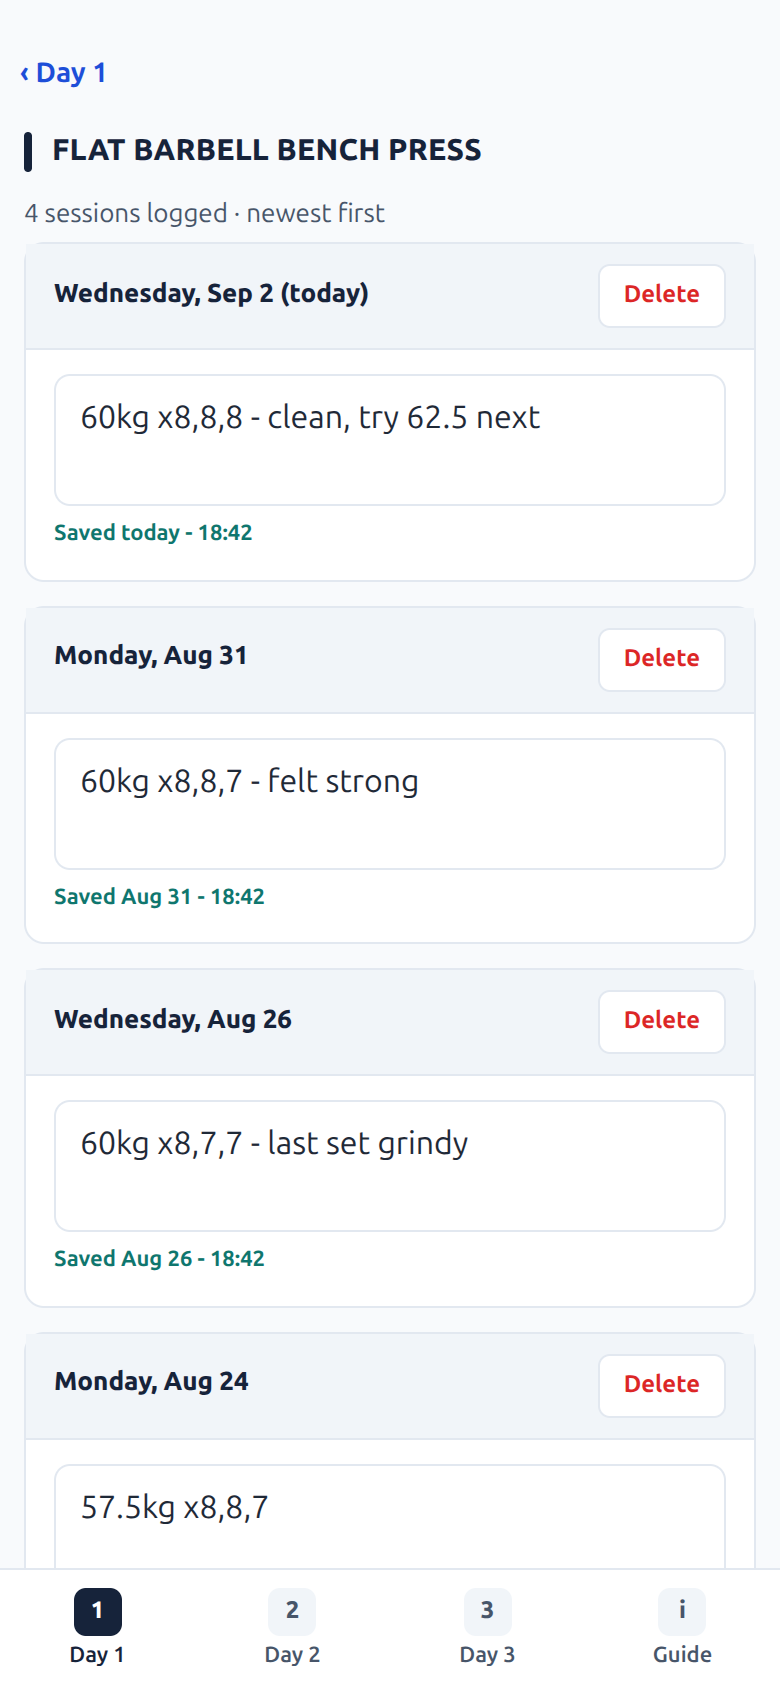
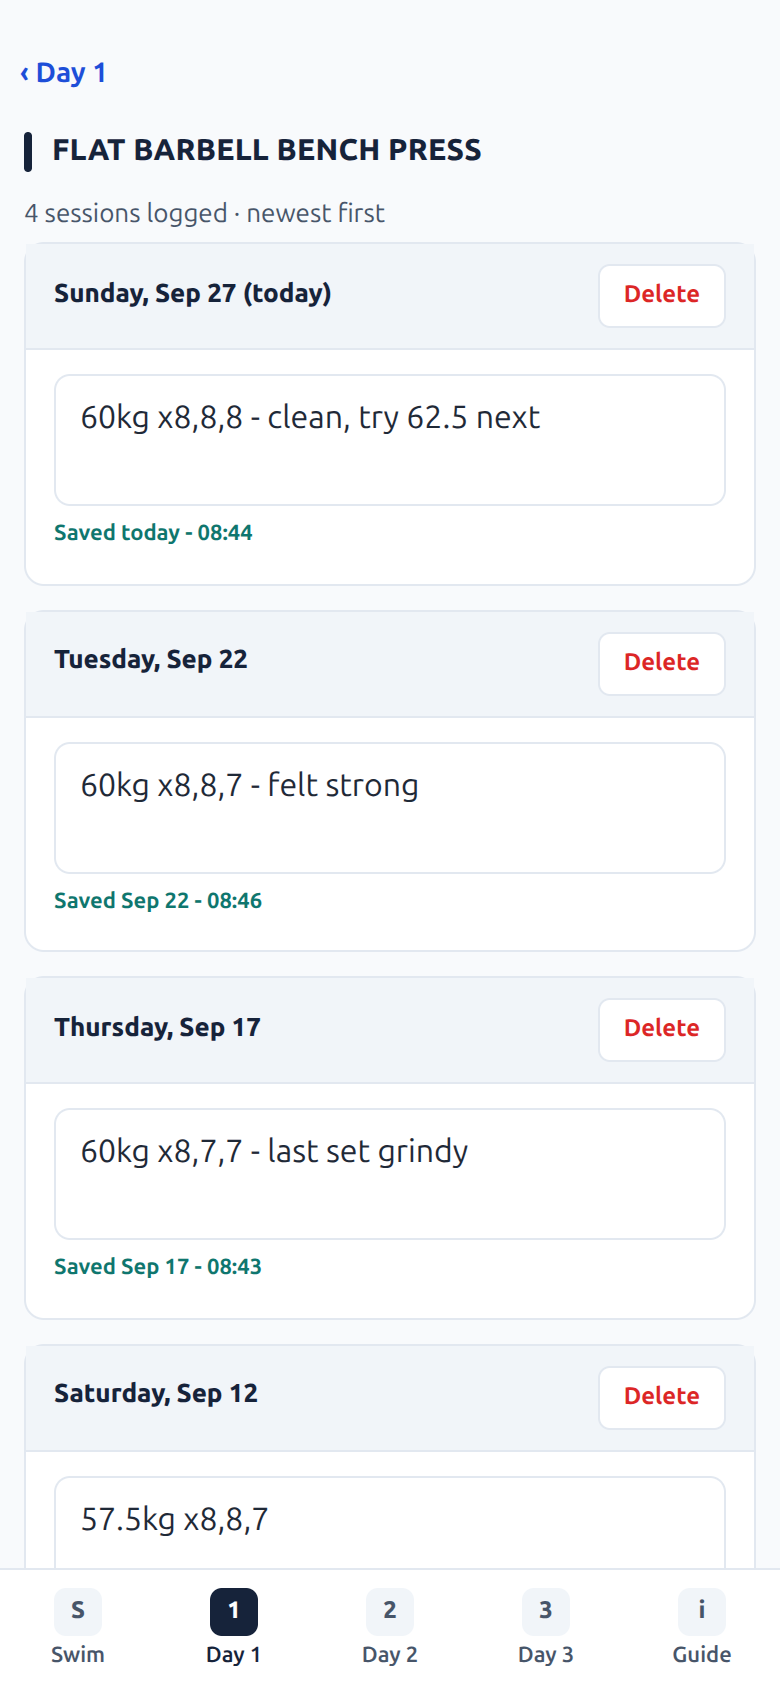
Refresh README screenshots for v7.0
- Workout and history retaken with the Swim tab in the bar
- New swim screenshot; synthetic log data only

diff --git a/README.md b/README.md
@@ -7,9 +7,9 @@ itself — no account, no server, no sync.
 Built as a personal training app, and kept public because the approach may be useful to anyone
 building a small offline PWA without a framework.
 
-| Workout | Per-exercise history |
-| :--: | :--: |
-| ![A workout screen](docs/screenshots/workout.png) | ![The history view](docs/screenshots/history.png) |
+| Today's swim | Workout | Per-exercise history |
+| :--: | :--: | :--: |
+| ![The swim tab](docs/screenshots/swim.png) | ![A workout screen](docs/screenshots/workout.png) | ![The history view](docs/screenshots/history.png) |
 
 ## What it does
 
